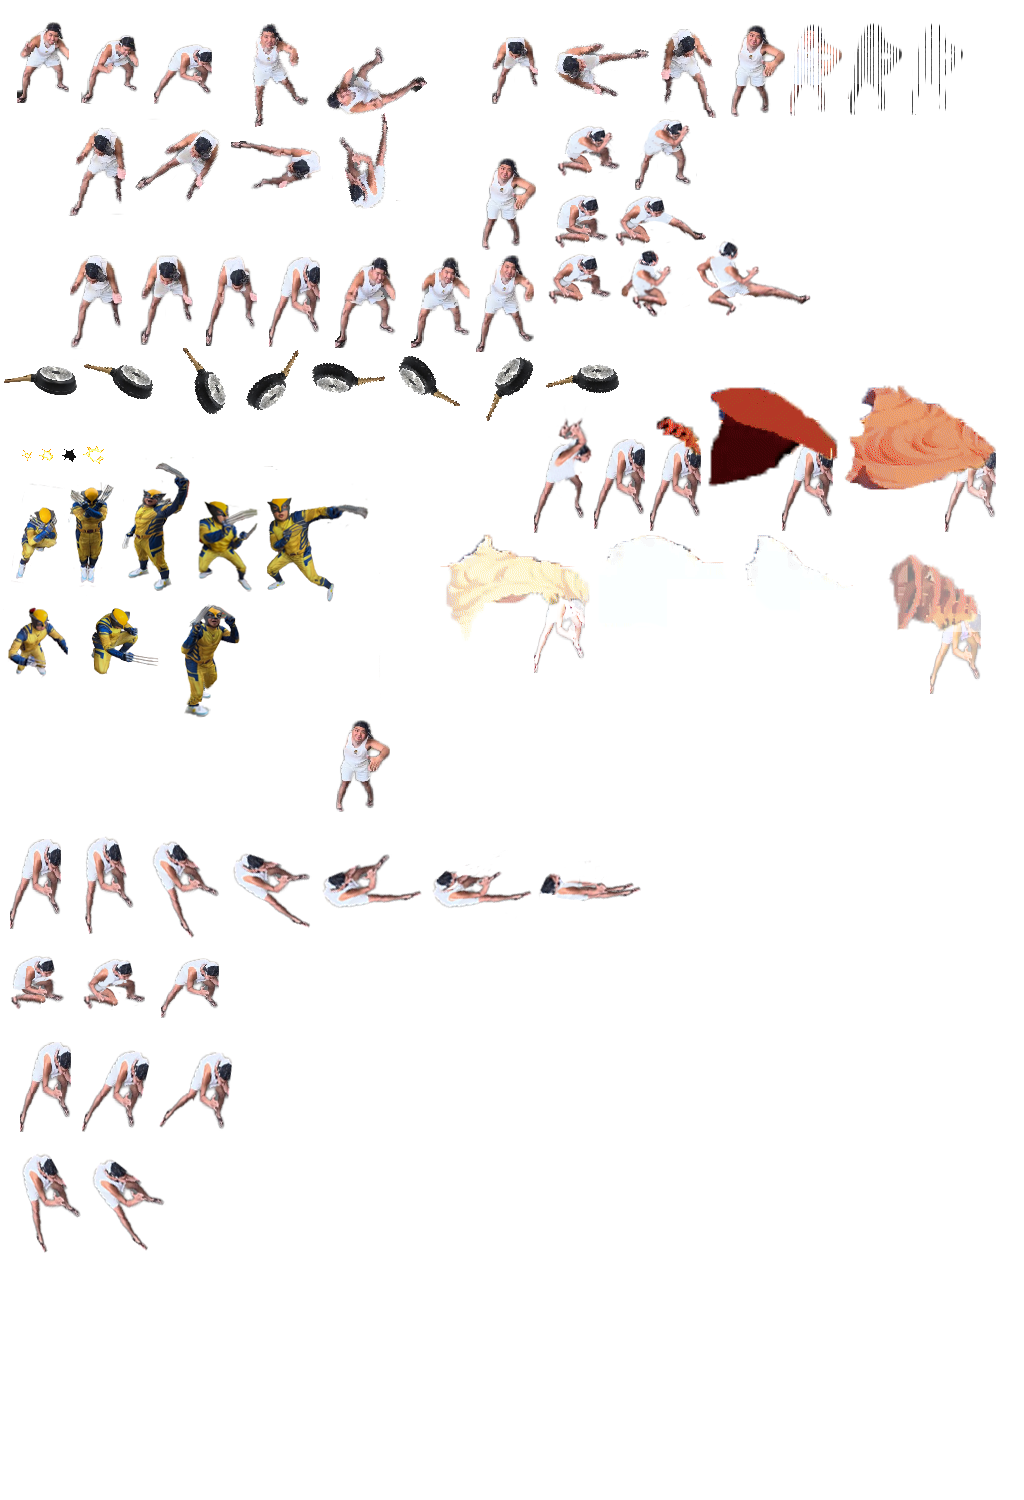
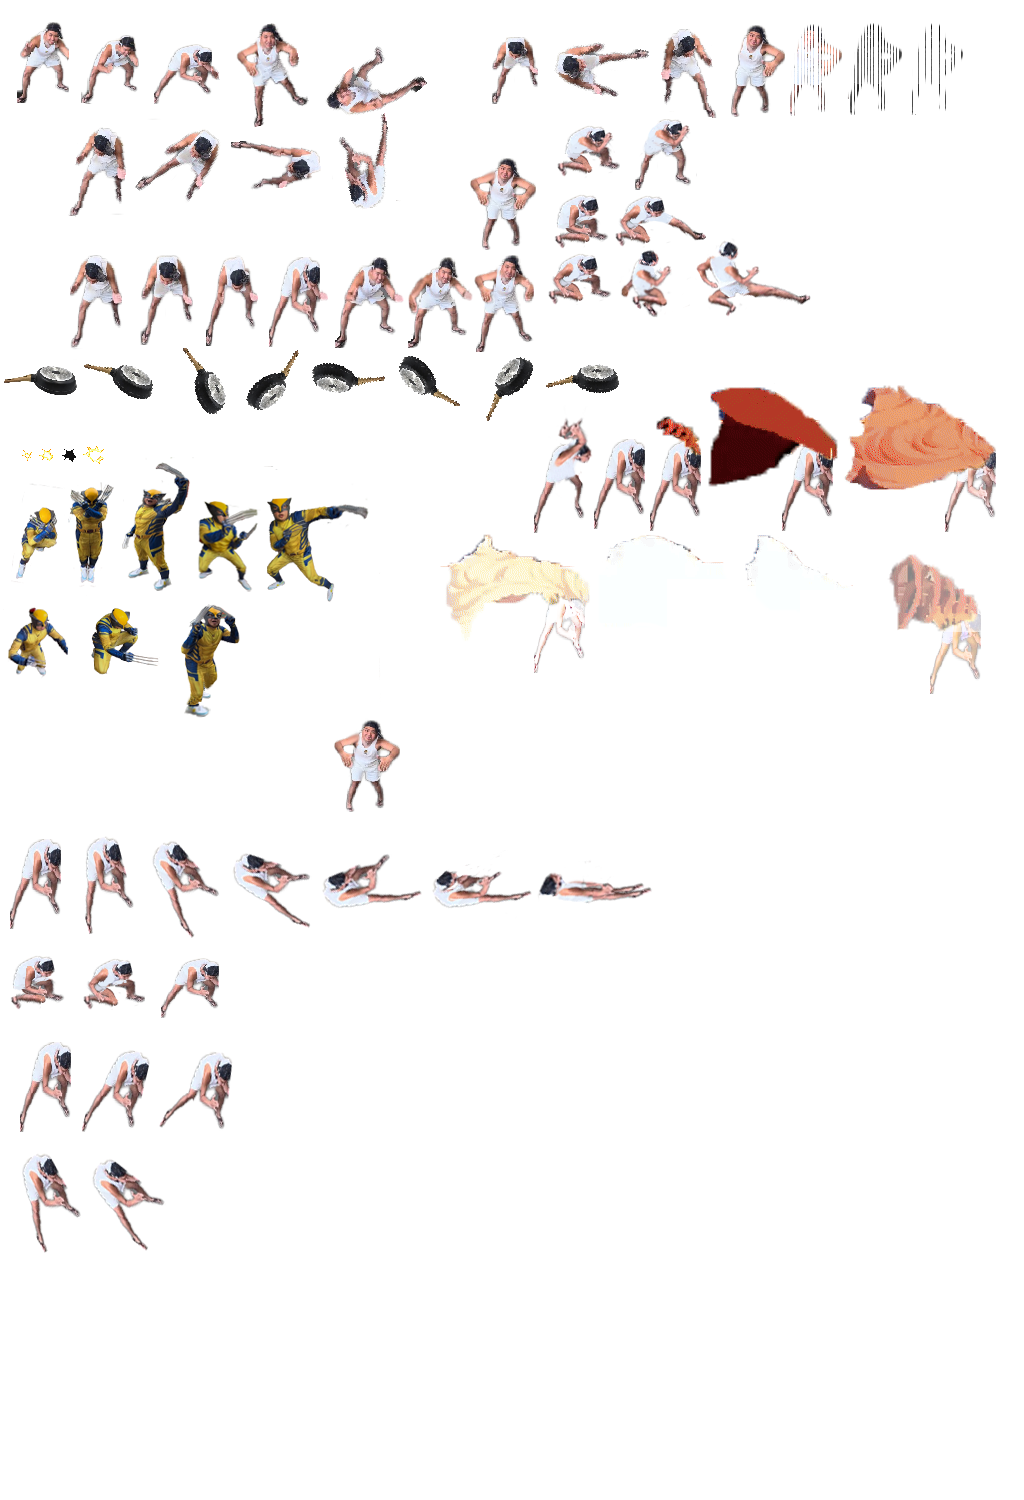
fixed vs mode on main menu dec 4 2025

diff --git a/src/entities/fighters/Malupiton.js b/src/entities/fighters/Malupiton.js
@@ -29,20 +29,20 @@ export class Malupiton extends Fighter {
         this.frames = new Map([
            
            //Forwards or Idle
-            ['forwards-1', [[[71, 253, 50, 90],[24,88]], PushBox.IDLE, HurtBox.IDLE]],
-            ['forwards-2', [[[140, 253,52,88],[26,90]], PushBox.IDLE, HurtBox.IDLE]],
-            ['forwards-3', [[[205, 255,52,88],[26,86]], PushBox.IDLE, HurtBox.IDLE]],
-            ['forwards-4', [[[269, 254,50,90],[25,88]], PushBox.IDLE, HurtBox.IDLE]],
-            ['forwards-5', [[[335, 254,61,90],[30,88]], PushBox.IDLE, HurtBox.IDLE]],
-            ['forwards-6', [[[410, 254,60,89],[30,87]], PushBox.IDLE, HurtBox.IDLE]],
-            ['forwards-7', [[[477, 252,57,96],[28,94]], PushBox.IDLE, HurtBox.IDLE]],
-            ['forwards-8', [[[482, 155,54,91],[27,89]], PushBox.IDLE, HurtBox.IDLE]],
-            ['forwards-9', [[[477, 252,57,96],[28,94]], PushBox.IDLE, HurtBox.IDLE]],
-            ['forwards-10',[[[410, 254,60,89],[30,87]], PushBox.IDLE, HurtBox.IDLE]],
-            ['forwards-11',[[[335, 254,61,90],[30,88]], PushBox.IDLE, HurtBox.IDLE]],
-            ['forwards-12', [[[269, 254,50,90],[25,88]], PushBox.IDLE, HurtBox.IDLE]],
-            ['forwards-13', [[[205, 255,52,88],[26,86]], PushBox.IDLE, HurtBox.IDLE]],
-            ['forwards-14', [[[140, 253,52,88],[26,90]], PushBox.IDLE, HurtBox.IDLE]],
+            ['forwards-1', [[[70, 255, 52, 95],[26,93]], PushBox.IDLE, HurtBox.IDLE]],
+            ['forwards-2', [[[140, 255,53,90],[26,88]], PushBox.IDLE, HurtBox.IDLE]],
+            ['forwards-3', [[[206, 255,52,91],[26,89]], PushBox.IDLE, HurtBox.IDLE]],
+            ['forwards-4', [[[269, 257,59,90],[30,88]], PushBox.IDLE, HurtBox.IDLE]],
+            ['forwards-5', [[[335, 257,69,91],[34,89]], PushBox.IDLE, HurtBox.IDLE]],
+            ['forwards-6', [[[408, 257,65,91],[32,89]], PushBox.IDLE, HurtBox.IDLE]],
+            ['forwards-7', [[[473, 255,61,97],[30,95]], PushBox.IDLE, HurtBox.IDLE]],
+            ['forwards-8', [[[469, 156,67,94],[33,92]], PushBox.IDLE, HurtBox.IDLE]],
+            ['forwards-9', [[[473, 255,61,97],[30,95]], PushBox.IDLE, HurtBox.IDLE]],
+            ['forwards-10',[[[408, 257,65,91],[32,89]], PushBox.IDLE, HurtBox.IDLE]],
+            ['forwards-11',[[[335, 257,69,91],[34,89]], PushBox.IDLE, HurtBox.IDLE]],
+            ['forwards-12', [[[269, 257,59,90],[30,88]], PushBox.IDLE, HurtBox.IDLE]],
+            ['forwards-13', [[[206, 255,52,91],[26,89]], PushBox.IDLE, HurtBox.IDLE]],
+            ['forwards-14', [[[140, 253,53,90],[26,88]], PushBox.IDLE, HurtBox.IDLE]],
 
             //Dodge
              ['dodge-1', [[[730, 25, 55, 92],[27,90]], PushBox.NULL, HurtBox.IDLE]],
@@ -52,19 +52,19 @@ export class Malupiton extends Fighter {
            
             
             //Jump Up
-            ['jumpup-1', [[[410, 254,60,89],[30,87]], PushBox.JUMP, HurtBox.JUMP]],
-            ['jumpup-2', [[[335, 254,61,90],[30,88]], PushBox.JUMP, HurtBox.JUMP]],
-            ['jumpup-3', [[[269, 254,50,90],[25,88]], PushBox.JUMP, HurtBox.JUMP]],
+            ['jumpup-1', [[[408, 257,64,91],[32,89]], PushBox.JUMP, HurtBox.JUMP]],
+            ['jumpup-2', [[[335, 257,69,91],[34,89]], PushBox.JUMP, HurtBox.JUMP]],
+            ['jumpup-3', [[[269, 257,59,92],[30,90]], PushBox.JUMP, HurtBox.JUMP]],
             
             
             //Jump Forwards/Backwards
             ['jump-roll-1', [[[70, 124, 55, 88], [27,86]], PushBox.JUMP, HurtBox.JUMP]],
             ['jump-roll-2', [[[136, 127, 82, 70], [41,68]], PushBox.JUMP, HurtBox.JUMP]],
-            ['jump-roll-3', [[[231, 138, 88, 48], [44,46]], PushBox.JUMP, HurtBox.JUMP]],
+            ['jump-roll-3', [[[236, 138, 88, 48], [44,46]], PushBox.JUMP, HurtBox.JUMP]],
             ['jump-roll-4', [[[339, 115, 50, 94], [24,91]], PushBox.JUMP, HurtBox.JUMP]],
             ['jump-roll-5', [[[327, 43, 100, 68], [50,68]], PushBox.JUMP, HurtBox.JUMP]],
-            ['jump-roll-6', [[[251, 21, 56, 102], [28,100]], PushBox.JUMP, HurtBox.JUMP]],
-            ['jump-roll-7', [[[482, 155,54,91],[27,89]], PushBox.JUMP, HurtBox.JUMP]],
+            ['jump-roll-6', [[[236, 23, 73, 105], [36,103]], PushBox.JUMP, HurtBox.JUMP]],
+            ['jump-roll-7', [[[469, 156,67,94],[33,92]], PushBox.JUMP, HurtBox.JUMP]],
 
             //Special Roll
             ['special-roll-1', [[[70, 124, 55, 88], [27,86]], PushBox.JUMP, HurtBox.JUMP, HitBox.LIGHT_PUNCH]],
@@ -73,15 +73,15 @@ export class Malupiton extends Fighter {
             ['special-roll-4', [[[339, 115, 50, 94], [24,91]], PushBox.JUMP, HurtBox.JUMP, HitBox.LIGHT_PUNCH]],
             ['special-roll-5', [[[327, 43, 100, 68], [50,68]], PushBox.JUMP, HurtBox.JUMP]],
             ['special-roll-6', [[[251, 21, 56, 102], [28,100]], PushBox.JUMP, HurtBox.JUMP]],
-            ['special-roll-7', [[[482, 155,54,91],[27,89]], PushBox.JUMP, HurtBox.JUMP, HitBox.LIGHT_PUNCH]],
+            ['special-roll-7', [[[469, 156,67,94],[33,92]], PushBox.JUMP, HurtBox.JUMP, HitBox.LIGHT_PUNCH]],
 
             //Jump first/Last frame
-            ['jump-land', [[[269, 254,51,90],[25,88]], PushBox.IDLE, HurtBox.IDLE]],
+            ['jump-land', [[[269, 257,59,90],[29,88]], PushBox.IDLE, HurtBox.IDLE]],
 
              //Crouch
             ['crouch-1', [[[17, 19, 52, 81], [26,79]], PushBox.IDLE, HurtBox.JUMP]],
             ['crouch-2', [[[81, 32, 57, 69], [28,67]], PushBox.BEND, HurtBox.BEND]],
-            ['crouch-3', [[[153, 43, 59, 59], [29,57]], PushBox.CROUCH, HurtBox.CROUCH]], 
+            ['crouch-3', [[[154, 44, 66, 60], [33,58]], PushBox.CROUCH, HurtBox.CROUCH]], 
            
             //Idle
 
@@ -96,7 +96,7 @@ export class Malupiton extends Fighter {
             ['idle-turn-1', [[[70, 252, 52, 91], [26,89]], PushBox.IDLE, [[-16, -96, 28, 18],[-14, -74, 40, 24], [-14, -31, 40, 32]]]],
 
             //Crouch Turn
-            ['crouch-turn-1', [[[154, 42, 58, 58], [29,56]], PushBox.CROUCH, [[7, -60, 24, 18],[-28, -46, 44, 24], [-28, -24, 44, 24]]]],
+            ['crouch-turn-1', [[[154, 44, 66, 60], [33,58]], PushBox.CROUCH, [[7, -60, 24, 18],[-28, -46, 44, 24], [-28, -24, 44, 24]]]],
             ['crouch-turn-2', [[[81, 32, 57, 67], [28,65]], PushBox.CROUCH, [[7, -60, 24, 18],[-28, -46, 44, 24], [-28, -24, 44, 24]]]],
             ['crouch-turn-3', [[[492, 34, 46, 67], [23,65]], PushBox.CROUCH, [[-26, -61, 24, 18],[-28, -46, 44, 24], [-28, -24, 44, 24]]]],
 
@@ -165,9 +165,9 @@ export class Malupiton extends Fighter {
             ['hyperskill1-9', [[[887, 554, 95, 140], [47,138]], PushBox.IDLE, HurtBox.NULL,]],
 
             //HyperSkill2
-            ['hyperskill2--4', [[[335, 720, 55, 92], [27,90]], PushBox.IDLE, HurtBox.NULL,]],
-            ['hyperskill2--3', [[[271, 720, 54, 92], [27,90]], PushBox.IDLE, HurtBox.NULL,]],
-            ['hyperskill2--2', [[[376, 613, 41, 92], [20,90]], PushBox.IDLE, HurtBox.NULL,]],
+            ['hyperskill2--4', [[[333, 718, 67, 94], [33,92]], PushBox.IDLE, HurtBox.NULL,]],
+            ['hyperskill2--3', [[[258, 720, 67, 92], [33,90]], PushBox.IDLE, HurtBox.NULL,]],
+            ['hyperskill2--2', [[[365, 613, 52, 92], [26,90]], PushBox.IDLE, HurtBox.NULL,]],
             ['hyperskill2--1', [[[329, 608, 33, 102], [16,100]], PushBox.IDLE, HurtBox.NULL,]],
             ['hyperskill2-0', [[[268, 608, 47, 102], [23,100]], PushBox.IDLE, HurtBox.NULL,]],
             ['hyperskill2-1', [[[70, 482, 43, 100], [22,98]], PushBox.IDLE, HurtBox.NULL,]],
@@ -186,7 +186,7 @@ export class Malupiton extends Fighter {
             ['death-4', [[[234, 852, 77, 76], [38,74]],PushBox.IDLE, HurtBox.IDLE]],
             ['death-5', [[[321, 855, 101, 51], [50,49]],PushBox.IDLE, HurtBox.IDLE]],
             ['death-6', [[[433, 870, 99, 37], [49,35]],PushBox.IDLE, HurtBox.IDLE]],
-            ['death-7', [[[540, 873, 101, 27], [50,25]],PushBox.IDLE, HurtBox.IDLE]],
+            ['death-7', [[[537, 867, 116, 37], [58,35]],PushBox.IDLE, HurtBox.IDLE]],
             
             //GetUp State
              ['getUp-1', [[[11, 955, 53, 55], [27,53]], PushBox.IDLE, HurtBox.NULL]],
@@ -199,13 +199,13 @@ export class Malupiton extends Fighter {
                   
          this.animations = {
             [FighterState.IDLE]:[ 
-                ['forwards-14', 75],['forwards-13',75],
-                ['forwards-12',75],['forwards-11',75],
-                ['forwards-10',75],['forwards-9',75],
-                ['forwards-8',75],['forwards-7',75],
-                ['forwards-6',75],['forwards-5',75],
-                ['forwards-4',75],['forwards-3',75],
-                ['forwards-2',75],['forwards-1',75],
+                ['forwards-14', 85],['forwards-13',85],
+                ['forwards-12',85],['forwards-11',85],
+                ['forwards-10',85],['forwards-9',85],
+                ['forwards-8',85],['forwards-7',85],
+                ['forwards-6',85],['forwards-5',85],
+                ['forwards-4',85],['forwards-3',85],
+                ['forwards-2',85],['forwards-1',85],
             ],
             [FighterState.DODGE_BACKWARD]:[ 
                 ['dodge-1', 40], ['dodge-2', 40],
@@ -221,19 +221,17 @@ export class Malupiton extends Fighter {
             ],
 
             [FighterState.WALK_FORWARD]: [
-                ['forwards-10', 65],['forwards-9',65],
-                ['forwards-8',65],['forwards-7',65],
-                ['forwards-6',65],['forwards-5',65],
-                ['forwards-4',65],['forwards-3',65],
-                ['forwards-2',65],['forwards-1',65],
+             
+                ['forwards-6',85],['forwards-5',85],
+                ['forwards-4',85],['forwards-3',85],
+                ['forwards-2',85],['forwards-1',85],
                         
             ],
             [FighterState.WALK_BACKWARD]:[
-                ['forwards-10', 65],['forwards-9',65],
-                ['forwards-8',65],['forwards-7',65],
-                ['forwards-6',65],['forwards-5',65],
-                ['forwards-4',65],['forwards-3',65],
-                ['forwards-2',65],['forwards-1',65],
+             
+                ['forwards-6',85],['forwards-5',85],
+                ['forwards-4',85],['forwards-3',85],
+                ['forwards-2',85],['forwards-1',85],
         ],
             [FighterState.JUMP_START]:[
                 ['jump-land', 50],['jump-land',FrameDelay.TRANSITION],

diff --git a/src/scenes/MainMenu.js b/src/scenes/MainMenu.js
@@ -63,8 +63,54 @@ export class MainMenu {
     gameState.gameStarted = true; 
     playSound(this.soundSelect, 1);
     stopSound(this.musicIntro);
-    this.handleFlash();
+    
     gameState.buttonHold = false;
+
+    if(!this.introScreen.vsMode){
+            if(this.introScreen.pointer.cursor === 0){
+                if(this.fade.done) this.game.setScene(new Intro(this.game));
+                this.handleFlash();
+                 console.log("Start mode selected");
+            } else if (this.introScreen.pointer.cursor === 1){
+               //if(this.fade.done) this.game.setScene(new CharacterSelect(this.game));
+                 this.introScreen.pointer.y = 108;
+                 this.introScreen.pointer.x = 95;
+                 this.introScreen.pointer.cursor = 0;
+               this.introScreen.vsMode = true;
+                console.log("Vs mode selected");
+        } else if (this.introScreen.pointer.cursor === 2){
+          //  if(this.fade.done) this.game.setScene(new BattleScene(this.game));
+          this.handleFlash();
+                console.log("Practice mode selected");
+        } else if (this.introScreen.pointer.cursor === 3){
+            this.handleFlash();
+           if(this.fade.done) this.game.setScene(new OptionsMenu(this.game));
+                console.log("Options selected");
+    }
+} else {
+     if(this.introScreen.pointer.cursor === 0){
+            gameState.bot.player1 = false;
+            gameState.bot.player2 = false;
+                this.handleFlash();
+                 console.log("PVP Selected");
+            } else if (this.introScreen.pointer.cursor === 1){
+                 gameState.bot.player1 = false;
+            gameState.bot.player2 = true;
+               this.handleFlash();
+                console.log("P VS Cpu selected");
+        } else if (this.introScreen.pointer.cursor === 2){
+             gameState.bot.player1 = true;
+            gameState.bot.player2 = true;
+          this.handleFlash();
+                console.log("CPU vs CPU Selected");
+        } else if (this.introScreen.pointer.cursor === 3){
+            this.introScreen.vsMode = false;
+            this.introScreen.pointer.y = 108;
+            this.introScreen.pointer.x = 135;
+                 this.introScreen.pointer.cursor = 0;
+                console.log("Vs mode Back");
+    }
+}
     
 }
 
@@ -92,20 +138,39 @@ export class MainMenu {
 
     update(time, context) {
         this.fade.update();
-        if(this.fade.done){
-            if(this.introScreen.pointer.cursor === 0){
-                this.game.setScene(new Intro(this.game));
-                 console.log("Start mode selected");
+if(!this.introScreen.vsMode){
+ if(this.introScreen.pointer.cursor === 0){
+                if(this.fade.done) this.game.setScene(new Intro(this.game));
+               
+                 
             } else if (this.introScreen.pointer.cursor === 1){
-                this.game.setScene(new CharacterSelect(this.game));
-                console.log("Vs mode selected");
+      
         } else if (this.introScreen.pointer.cursor === 2){
-          //  this.game.setScene(new BattleScene(this.game));
-                console.log("Practice mode selected");
+            if(this.fade.done) this.game.setScene(new BattleScene(this.game));
+   
         } else if (this.introScreen.pointer.cursor === 3){
-           this.game.setScene(new OptionsMenu(this.game));
-                console.log("Options selected");
+    
+           if(this.fade.done) this.game.setScene(new OptionsMenu(this.game));
+              
     }
+} else {
+    if(this.introScreen.pointer.cursor === 0){
+            gameState.bot.player1 = false;
+            gameState.bot.player2 = false;
+                if(this.fade.done) this.game.setScene(new CharacterSelect(this.game));
+               
+                 console.log("PVP Selected");
+            } else if (this.introScreen.pointer.cursor === 1){
+                 gameState.bot.player1 = false;
+            gameState.bot.player2 = true;
+               if(this.fade.done) this.game.setScene(new CharacterSelect(this.game));
+                console.log("P VS Cpu selected");
+        } else if (this.introScreen.pointer.cursor === 2){
+             gameState.bot.player1 = true;
+            gameState.bot.player2 = true;
+          if(this.fade.done) this.game.setScene(new CharacterSelect(this.game));
+                console.log("CPU vs CPU Selected");
+        } 
 }
          this.handleInput(0);
         this.handleInput(1);

diff --git a/src/entities/MainMenuScreen.js b/src/entities/MainMenuScreen.js
@@ -37,7 +37,7 @@ export class MainMenuScreen {
         this.frameMovieEnable = true;
         this.tankTimer = 0;
 
-
+        this.vsMode = false;
         this.blinkTimer = 0;
         this.sceneTimer = 0;
         this.stopwatch = 0;
@@ -225,15 +225,19 @@ export class MainMenuScreen {
             this.drawTextLabel(context, '@ANDREIBARDOQUILLO..LTD2025', 70,210, 1, 0.7);
         }
 
+        drawVSMenu(context){
+           // this.drawTextLabel(context, '@KAPECOM..LTD2025', 90,190, 1, 0.7);
+            this.drawTextLabel(context, 'PLAYER VS PLAYER', 125,110, 1, 0.7);
+            this.drawTextLabel(context, 'PLAYER VS CPU', 125,125, 1, 0.7);
+            this.drawTextLabel(context, 'CPU VS CPU', 125,140, 1, 0.7);
+            this.drawTextLabel(context, 'BACK', 125,155, 1, 0.7);
+
+             this.drawTextLabel(context, '@ISTRITPAYTER..BY..IJI', 90,190, 1, 0.7);
+            this.drawTextLabel(context, '@ANDREIBARDOQUILLO..LTD2025', 70,210, 1, 0.7);
+        }
+
   drawScreenTitle(context){
     this.drawFrame(context, 'title-screen', 0, 0);
-  }
-
-  drawOptionsMenu(context){
-            this.drawTextLabel(context, 'START', 165,110, 1, 0.7);
-            this.drawTextLabel(context, 'VS MODE', 165,125, 1, 0.7);
-            this.drawTextLabel(context, 'PRACTICE', 165,140, 1, 0.7);
-            this.drawTextLabel(context, 'OPTIONS', 165,155, 1, 0.7);
   }
 
   drawPointer(context){
@@ -244,7 +248,9 @@ export class MainMenuScreen {
        
         this.gameStart = true;
         this.drawScreenTitle(context);
-        this.drawMenu(context);
+        
+        if(!this.vsMode)this.drawMenu(context);
+        else this.drawVSMenu(context);
         this.drawPointer(context);
     }
        

diff --git a/src/scenes/Battlescene.js b/src/scenes/Battlescene.js
@@ -360,8 +360,8 @@ handleFlash() {
         }
     // Let AI control fighter 1 (index 1)
     if(this.statsBar.enemyStart === true){
-      this.enemyAI.update(time); 
-    // this.enemyAI2.update(time);
+        if(gameState.bot.player2) this.enemyAI.update(time); 
+        if(gameState.bot.player1) this.enemyAI2.update(time);
     }
    
 

diff --git a/src/StreetFighterGame.js b/src/StreetFighterGame.js
@@ -13,7 +13,7 @@ import { OptionsMenu } from './scenes/OptionsMenu.js';
 
 const selectedCharacters = [
     { 
-        name: "Golem", 
+        name: "Malupiton", 
         namePos: 5,
         sayings: 'Sabi ko naman sayo burger ka saken',
         color: "gray", 

diff --git a/src/state/gameState.js b/src/state/gameState.js
@@ -39,6 +39,10 @@ export const gameState = {
         duration: 0,
         intensity: 0,
     },
-
     shadowInvert: true,
+    // for Enemy AI
+    bot: {
+      player1: false,
+      player2: false,
+    },
 };
